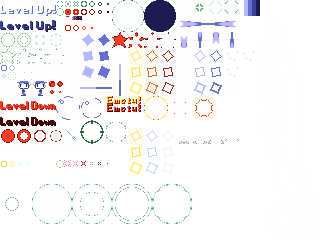
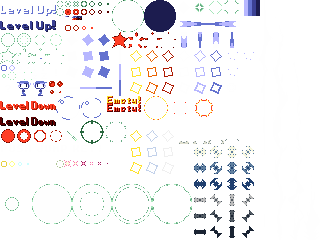
1.45: reworked Nanites Absorber visuals to use custom sprites instead of reusing fireball trails

diff --git a/src/NpcAct120.cpp b/src/NpcAct120.cpp
@@ -360,59 +360,54 @@ void ActNpc123(NPCHAR *npc)
 	npc->rect = rect[npc->direct];
 }
 
-// Sunstone
-void ActNpc124(NPCHAR *npc)
+// Nanites trail
+void ActNpcNanitesTrail(NPCHAR *npc)
 {
-	Rect rect[2] = {
-		{160, 0, 192, 32},
-		{192, 0, 224, 32},
+	Rect rect[] = {
+		{192, 144, 208, 160},
+		{208, 144, 224, 160},
+		{224, 144, 240, 160},
+		{240, 144, 256, 160},
+
+		{192, 160, 208, 176},
+		{208, 160, 224, 176},
+		{224, 160, 240, 176},
+		{240, 160, 256, 176},
+
+		{192, 176, 208, 192},
+		{208, 176, 224, 192},
+		{224, 176, 240, 192},
+		{240, 176, 256, 192},
+
+		{192, 192, 208, 208},
+		{208, 192, 224, 208},
+		{224, 192, 240, 208},
+		{240, 192, 256, 208},
+
+		{192, 208, 208, 224},
+		{208, 208, 224, 224},
+		{224, 208, 240, 224},
+		{240, 208, 256, 224},
+
+		{192, 224, 208, 240},
+		{208, 224, 224, 240},
+		{224, 224, 240, 240},
+		{240, 224, 256, 240},
 	};
 
-	switch (npc->act_no)
+	if (++npc->ani_wait > 5)
 	{
-		case 0:
-			npc->act_no = 1;
-			npc->x += 8 * 0x200;
-			npc->y += 8 * 0x200;
-			// Fallthrough
-		case 1:
-			npc->bits &= ~NPC_IGNORE_SOLIDITY;
-			npc->ani_no = 0;
-			break;
+		npc->ani_wait = 0;
 
-		case 10:
-			npc->act_no = 11;
-			npc->ani_no = 1;
-			npc->act_wait = 0;
-			npc->bits |= NPC_IGNORE_SOLIDITY;
-			// Fallthrough
-		case 11:
-			switch (npc->direct)
-			{
-				case 0:
-					npc->x -= 0x80;
-					break;
-
-				case 1:
-					npc->y -= 0x80;
-					break;
-
-				case 2:
-					npc->x += 0x80;
-					break;
-
-				case 3:
-					npc->y += 0x80;
-					break;
-			}
-			if (++npc->act_wait % 8 == 0)
-				PlaySoundObject(26, SOUND_MODE_PLAY);
-
-			SetQuake(20);
-			break;
+		if (++npc->ani_no > 2)
+		{
+			npc->cond = 0;
+			return;
+		}
 	}
+	npc->opacity -= 0.015f;
 
-	npc->rect = rect[npc->ani_no];
+	npc->rect = rect[((npc->direct + npc->ani_no) * 4) + npc->ym];
 }
 
 // Hidden item

diff --git a/src/bullets/Misc.cpp b/src/bullets/Misc.cpp
@@ -458,13 +458,13 @@ void ActBullet_Nanites(BULLET *bul)
 		bul->act_no = 1;
 
 		bul->count1 = 0;
-		bul->count2 = 60;
+		bul->count2 = 68;
 	}
 	else
 	{
 		if (CheckForCooldown(gCooldowns, NANITES_CD_ID) == -1){
-			lol = 3;
-			speed = (CheckForCooldown(gCooldowns, NANITES_TIME_ID) > 0 ? 16 : 8);
+			lol = 0;
+			speed = (CheckForCooldown(gCooldowns, NANITES_TIME_ID) > 0 ? 24 : 16);
 			
 			if (GetFlagTraitData<bool>(FlagTraits::NANITES, "projectiles", false)){
 				short rate = (CheckForCooldown(gCooldowns, NANITES_TIME_ID) > 0 ? GetFlagTraitData<int>(FlagTraits::NANITES, "active_projectile_rate") : GetFlagTraitData<int>(FlagTraits::NANITES, "passive_projectile_rate"));
@@ -481,11 +481,22 @@ void ActBullet_Nanites(BULLET *bul)
 				}
 			}
 		} else {
-			lol = 0;
-			speed = 20;
+			lol = 3;
+			speed = 8;
 		}
 		bul->count1 += speed;
-		SetNpChar(129, bul->x, bul->y, 0, 0, bul->ani_no + lol, NULL, 0x100);
+
+		if (++bul->ani_wait > 2)
+		{
+			bul->ani_wait = 0;
+
+			if (++bul->ani_no > 3)
+			{
+				bul->ani_no = 0;
+			}
+
+			SetNpChar(124, bul->x, bul->y, 0, bul->ani_no, lol, NULL, 0x800 + bul->ani_no*20);
+		}
 
 		deg = bul->count1 / 4;
 
@@ -497,15 +508,6 @@ void ActBullet_Nanites(BULLET *bul)
 		// if ((bul->count1 / 2 % 2) == 0)
 		// 	bul->ym = (bul->tgt_y - bul->y) / 2;
 	}
-
-	if (++bul->ani_wait > 0)
-	{
-		bul->ani_wait = 0;
-		++bul->ani_no;
-	}
-
-	if (bul->ani_no > 2)
-		bul->ani_no = 0;
 
 	// bul->x += bul->xm;
 	// bul->y += bul->ym;

diff --git a/src/NpcAct.h b/src/NpcAct.h
@@ -129,7 +129,7 @@ void ActNpc120(NPCHAR *npc);
 void ActNpc121(NPCHAR *npc);
 void ActNpc122(NPCHAR *npc);
 void ActNpc123(NPCHAR *npc);
-void ActNpc124(NPCHAR *npc);
+void ActNpcNanitesTrail(NPCHAR *npc);
 void ActNpc125(NPCHAR *npc);
 void ActNpcPuppy(NPCHAR *npc);
 void ActNpc127(NPCHAR *npc);

diff --git a/src/NpcTbl.cpp b/src/NpcTbl.cpp
@@ -140,7 +140,7 @@ const NPCFUNCTION gpNpcFuncTbl[] = {
 	ActNpc121,
 	ActNpc122,
 	ActNpc123,
-	ActNpc124,
+	ActNpcNanitesTrail,
 	ActNpc125,
 	ActNpcPuppy,
 	ActNpc127,
